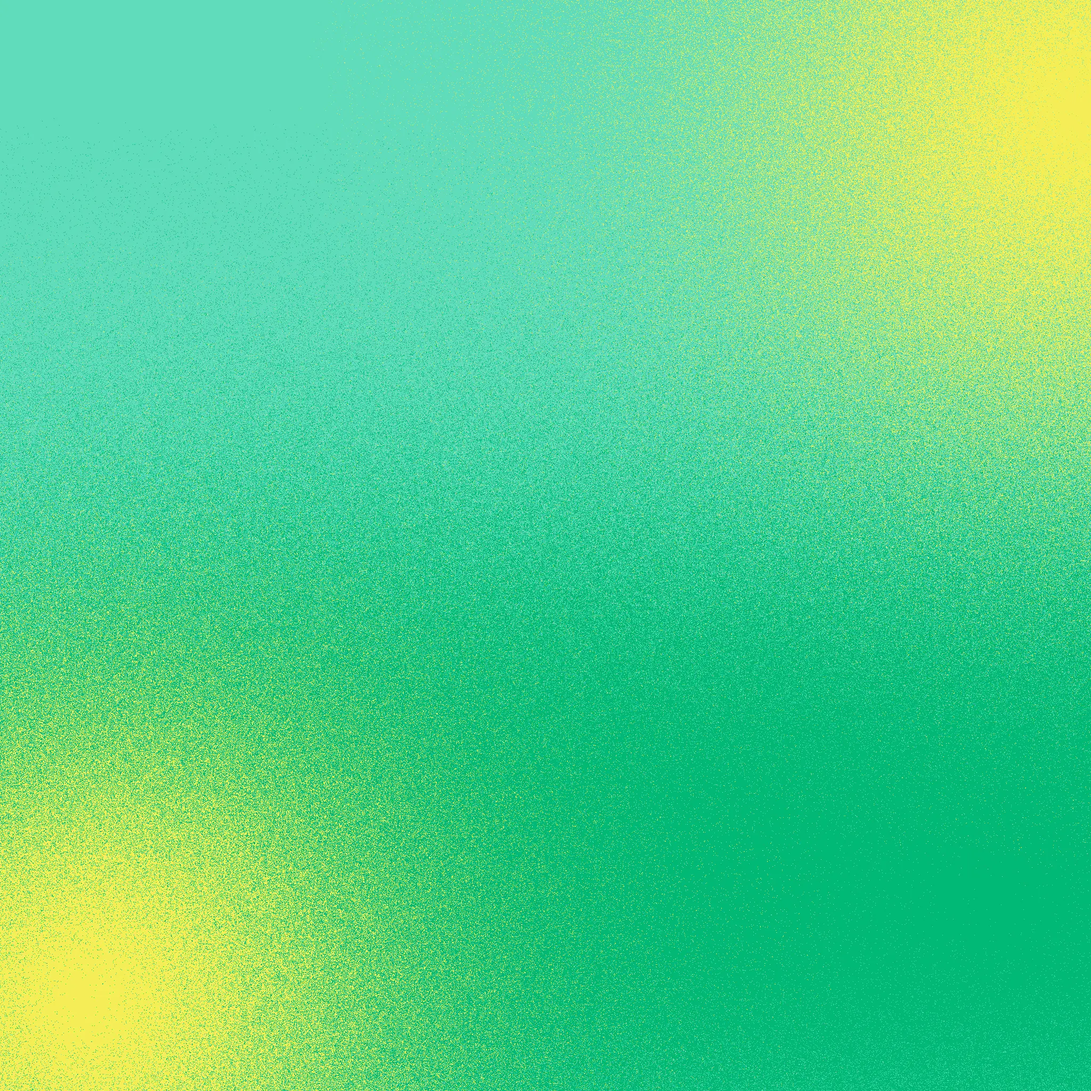
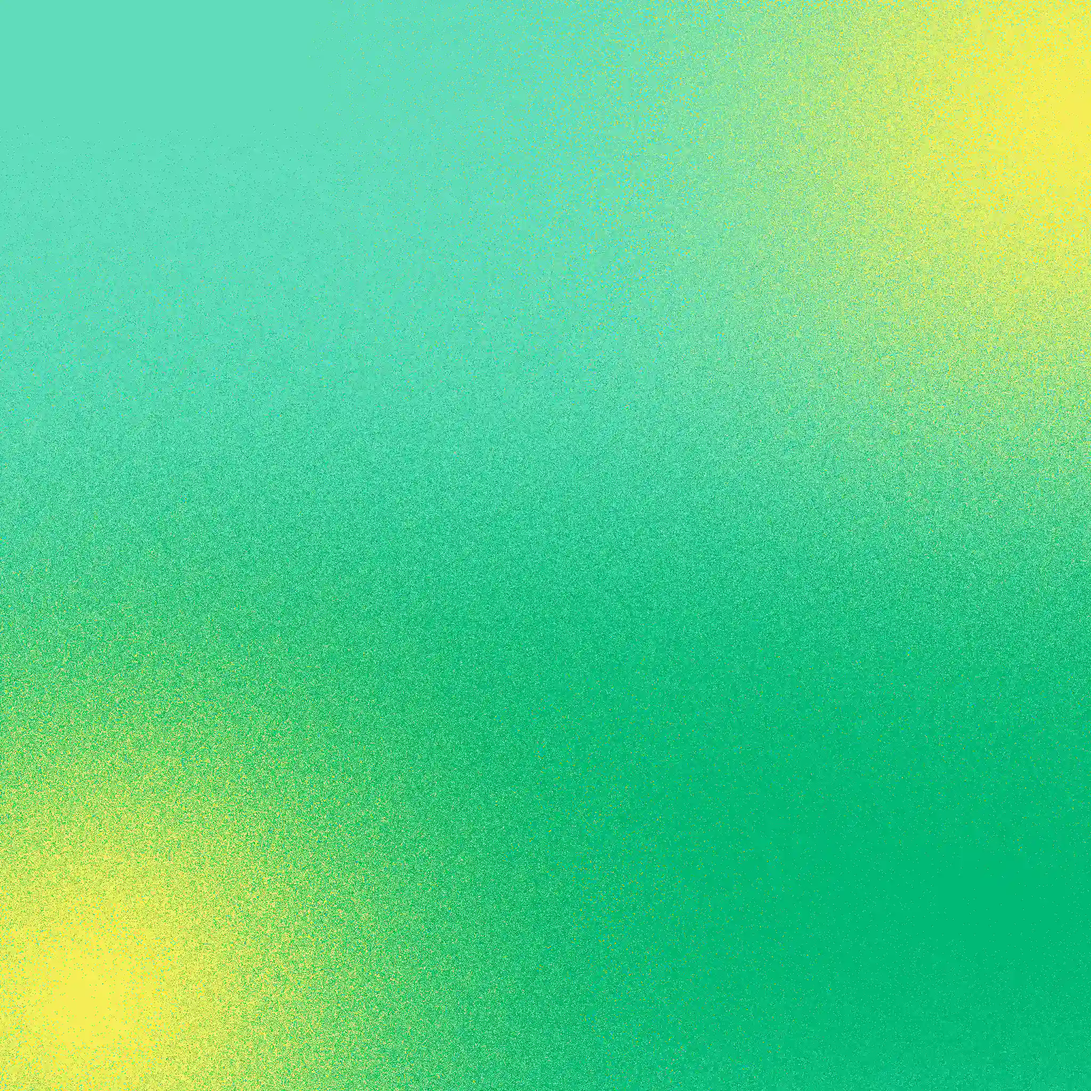
chore: reduce image size

diff --git a/index.html b/index.html
@@ -400,18 +400,6 @@
     <p><a href="./impressum.html" target="_blank">Impressum</a></p>
   </footer>
 
-  <!-- <div class="modal fade" id="modalChiquito" tabindex="-1" role="dialog" aria-labelledby="photoModalLabel"
-    aria-hidden="true">
-    <div class="modal-dialog modal-lg" role="document">
-      <div class="modal-content">
-        <div class="modal-body">
-          <img src="docs/assets/chiquito_fuerth.webp" style="width: 100%;"
-            alt="Promotional photo for Chiquito Team Band">
-        </div>
-      </div>
-    </div>
-  </div> -->
-
   <script>
     $(document).ready(function () {
       // Initialize Tooltip

diff --git a/README.md b/README.md
@@ -54,6 +54,15 @@ bash converter.sh
 
 This will convert all the `.jpg` files into `.webp`. Remember to remove the jpg files before committing your changes.
 
+### Decreasing image size even more
+
+You can use `cwebp` to decrease the quality of the photo a bit, which is barely noticeable but it'll decrease the image size.
+Try playing with the `-q` parameter from 1 to 100.
+
+```bash
+cwebp photo.webp -q 70 -o compressed_photo.webp
+```
+
 ### Cropping the image maintaining the aspect ratio
 
 Sometimes photos don't look exactly the same size so some elements get distorted.
